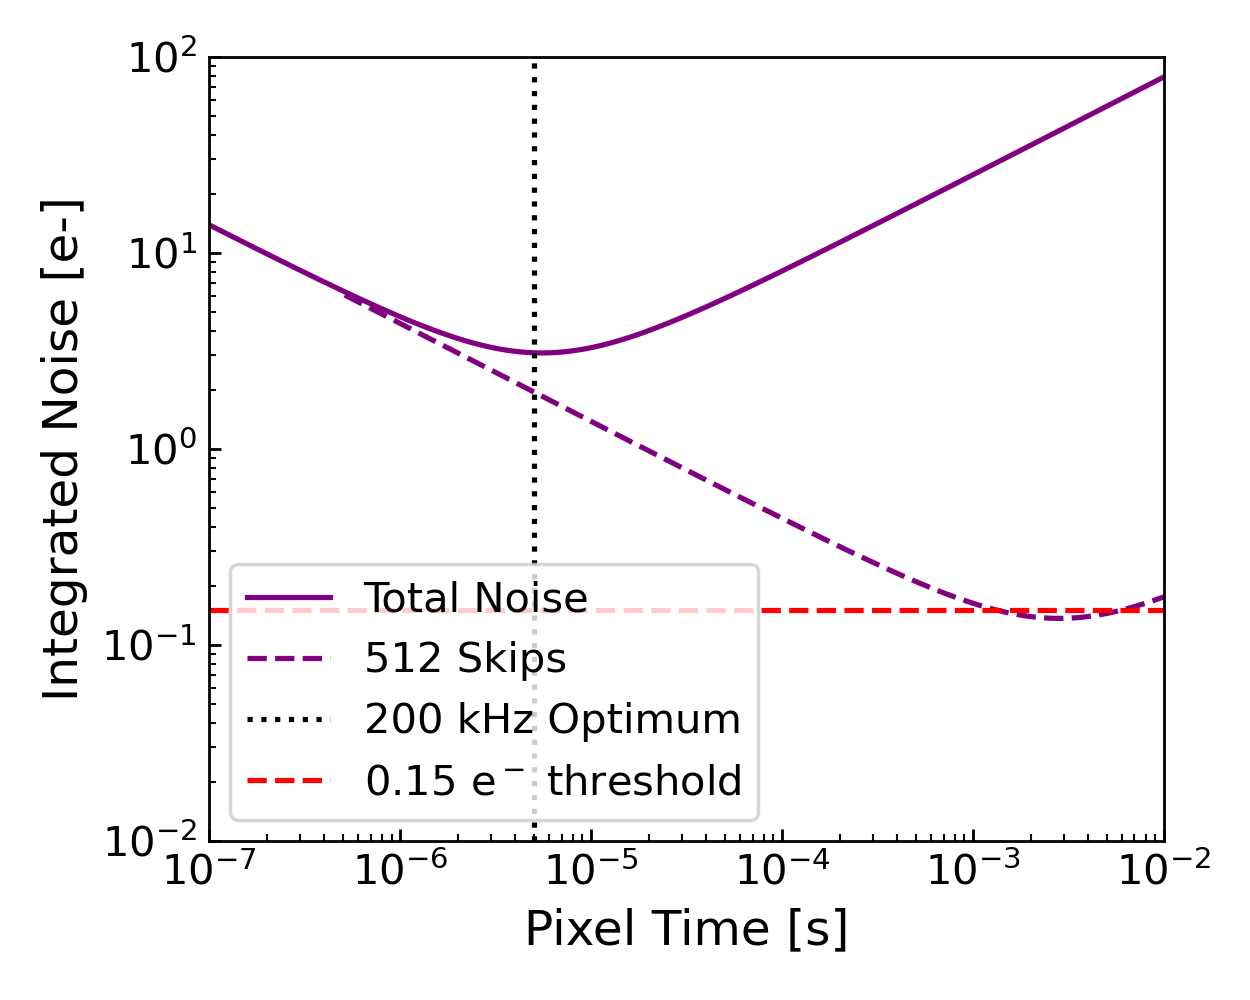
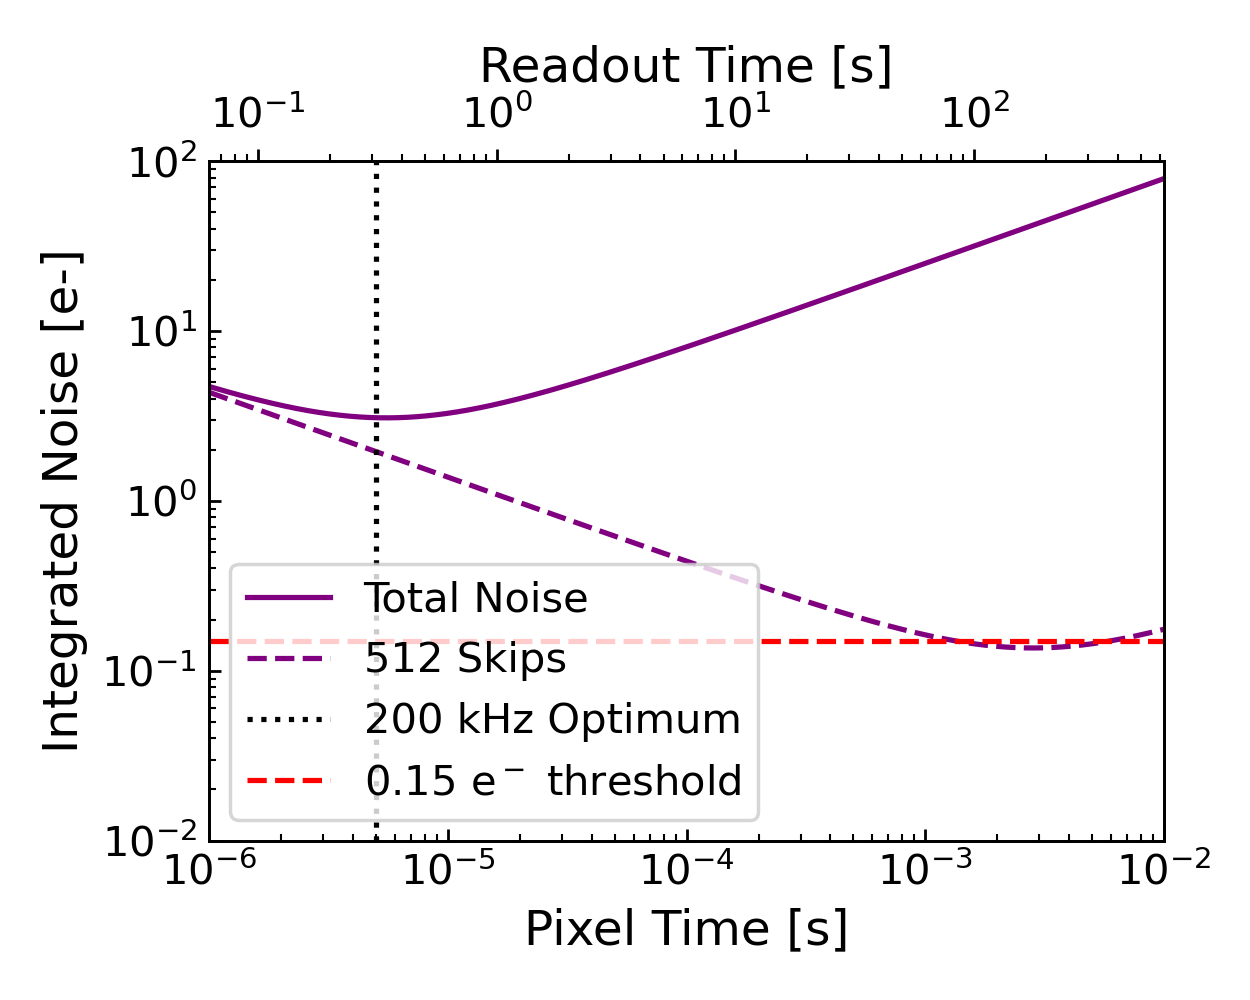
Update noise

diff --git a/CCDs/Skipper_Noise/skipper_noise_modeling.py b/CCDs/Skipper_Noise/skipper_noise_modeling.py
@@ -1,9 +1,3 @@
-"""
-Created on Thu May  9 12:54:36 2024
-
-@author: baparker
-"""
-
 import numpy as np
 import matplotlib.pyplot as plt
 import astropy.units as u
@@ -96,8 +90,8 @@ def total_noise(speed, noise_density, noise_freqs):
     sigma = np.sqrt(variance)
     return sigma
 
-#@u.quantity_input(f=u.Hz, f1=u.Hz, f2=u.Hz, ewn=u.V/u.Hz**0.5)
 #@custom_model
+#@u.quantity_input(f=u.Hz, f1=u.Hz, f2=u.Hz, ewn=u.V/u.Hz**0.5)
 def noise_model(f, ewn, f1, f2):
     f = u.Quantity(f, u.Hz).value
     f1 = u.Quantity(f1, u.Hz).value
@@ -172,6 +166,7 @@ plt.show()
 
 
 fig, ax = plt.subplots(1, 1, figsize=(5,4), layout='tight')
+ax2 = ax.twiny()
 
 freqs = np.logspace(0,10,10000) * u.Hz
 tau = np.logspace(-9, -2, 10000) * u.s 
@@ -183,12 +178,17 @@ nc_1f2 = 100 * u.kHz#2e6 * u.Hz # Nominally 100 * u.kHz
 
 skips = 512
 
-conversion = 6.5e-6
-# Steve recommended 5e-6
+npixx = 4000
+npixy = 2000
+npix=npixx * npixy
+namp = 128
+
+conversion =6.5e-6
+# Steve recommended 5e-6 - 2.5e6
 # delay = 0.01*u.us
 
 ax.plot(tau, sig_cds(wn_floor, tau, nc_1f, nc_1f2) / conversion, label='Total Noise', color='purple')
-ax.plot(tau * skips, sig_skipper(skips, wn_floor, tau, nc_1f, nc_1f2) / conversion, label='512 Skips', color='purple', ls='--')
+ax.plot(tau*skips, sig_skipper(skips, wn_floor, tau, nc_1f, nc_1f2) / conversion, label='512 Skips', color='purple', ls='--')
 ax.axvline(1/(200 * u.kHz), label='200 kHz Optimum', color='k', ls=':')
 # ax.axvline(1/(5000 * u.kHz), label='5 MHz', color='k', ls=':')
 
@@ -196,8 +196,11 @@ ax.axhline(0.15, color='red', ls='--', label='0.15 e$^-$ threshold')
 
 ax.set_xlabel(r'Pixel Time [s]')
 ax.set_ylabel(r'Integrated Noise [e-]')
+ax2.set_xlabel(r'Readout Time [s]')
 ax.legend(loc = 'best')
-ax.set_xlim(1e-7, 1e-2)
+ax.set_xlim(1e-6, 1e-2)
+ax2.set_xlim(1e-6*npix/namp, 1e-2*npix/namp)
+ax2.set_xscale('log')
 ax.set_xscale('log')
 ax.set_yscale('log')
 ax.set_ylim(1e-2, 1e2)
@@ -298,18 +301,19 @@ cerr = np.sqrt(np.diag(pcov))
 sig_below = noise_model(freqs, popt[0]-cerr[0],popt[1]-cerr[1],popt[2]-cerr[2])
 sig_above = noise_model(freqs, popt[0]+cerr[0],popt[1]+cerr[1],popt[2]+cerr[2])
 
+# =============================================================================
+# z = np.polyfit(noise_freqs.value, noise_density.value, 7)
+# p = np.poly1d(z)
+# =============================================================================
 
 
-###############
 
 
-
-#model = noise_model(*best_guess)  
-#fitter = fitting.LevMarLSQFitter()
-#noise_fit = fitter(model, noise_freqs, noise_density)
-
-
-###############
+# =============================================================================
+# model = noise_model(*best_guess)  
+# fitter = fitting.LevMarLSQFitter()
+# noise_fit = fitter(model, noise_freqs, noise_density)
+# =============================================================================
 
 
 
@@ -319,6 +323,7 @@ popt2 = [1.9e-8, 1e5, 0.9e7]
 
 ax.plot(freqs, noise_model(freqs, *popt), label='Total Noise \ne$_{{wn}}$={:.2e}$\pm${:.2e}\nf$_{{1nc}}$={:.2e}$\pm${:.2e}\n$f_{{2nc}}=${:.2e}$\pm${:.2e}'.format(popt[0],cerr[0],popt[1],cerr[1],popt[2],cerr[2]), color='purple')
 ax.plot(freqs, noise_model(freqs, *popt2), label='Theoretical', color='green')
+#ax.plot(freqs.value, p(freqs.value), color='orange')
 ax.plot(noise_freqs, noise_density, color='red', ls='-')
 
 ax.fill_between(freqs, sig_below, sig_above, facecolor='purple', alpha=0.25)
@@ -383,7 +388,11 @@ ax.tick_params(axis='both', direction='in', which='both')
  
 fig.tight_layout()
 
-# plt.savefig('C:/Users/Brock/Documents/Git/Research/CCDs/ccd_integrated_noise_data.png', dpi=250)
-# plt.savefig('/home/baparker/GitHub/Research/CCDs/ccd_integrated_noise.png', dpi=250)
+plt.savefig(path + '/Research/CCDs/ccd_integrated_noise_data.png', dpi=250)
 plt.show()
+
+
+## Fit by CDS function
+
+
 
